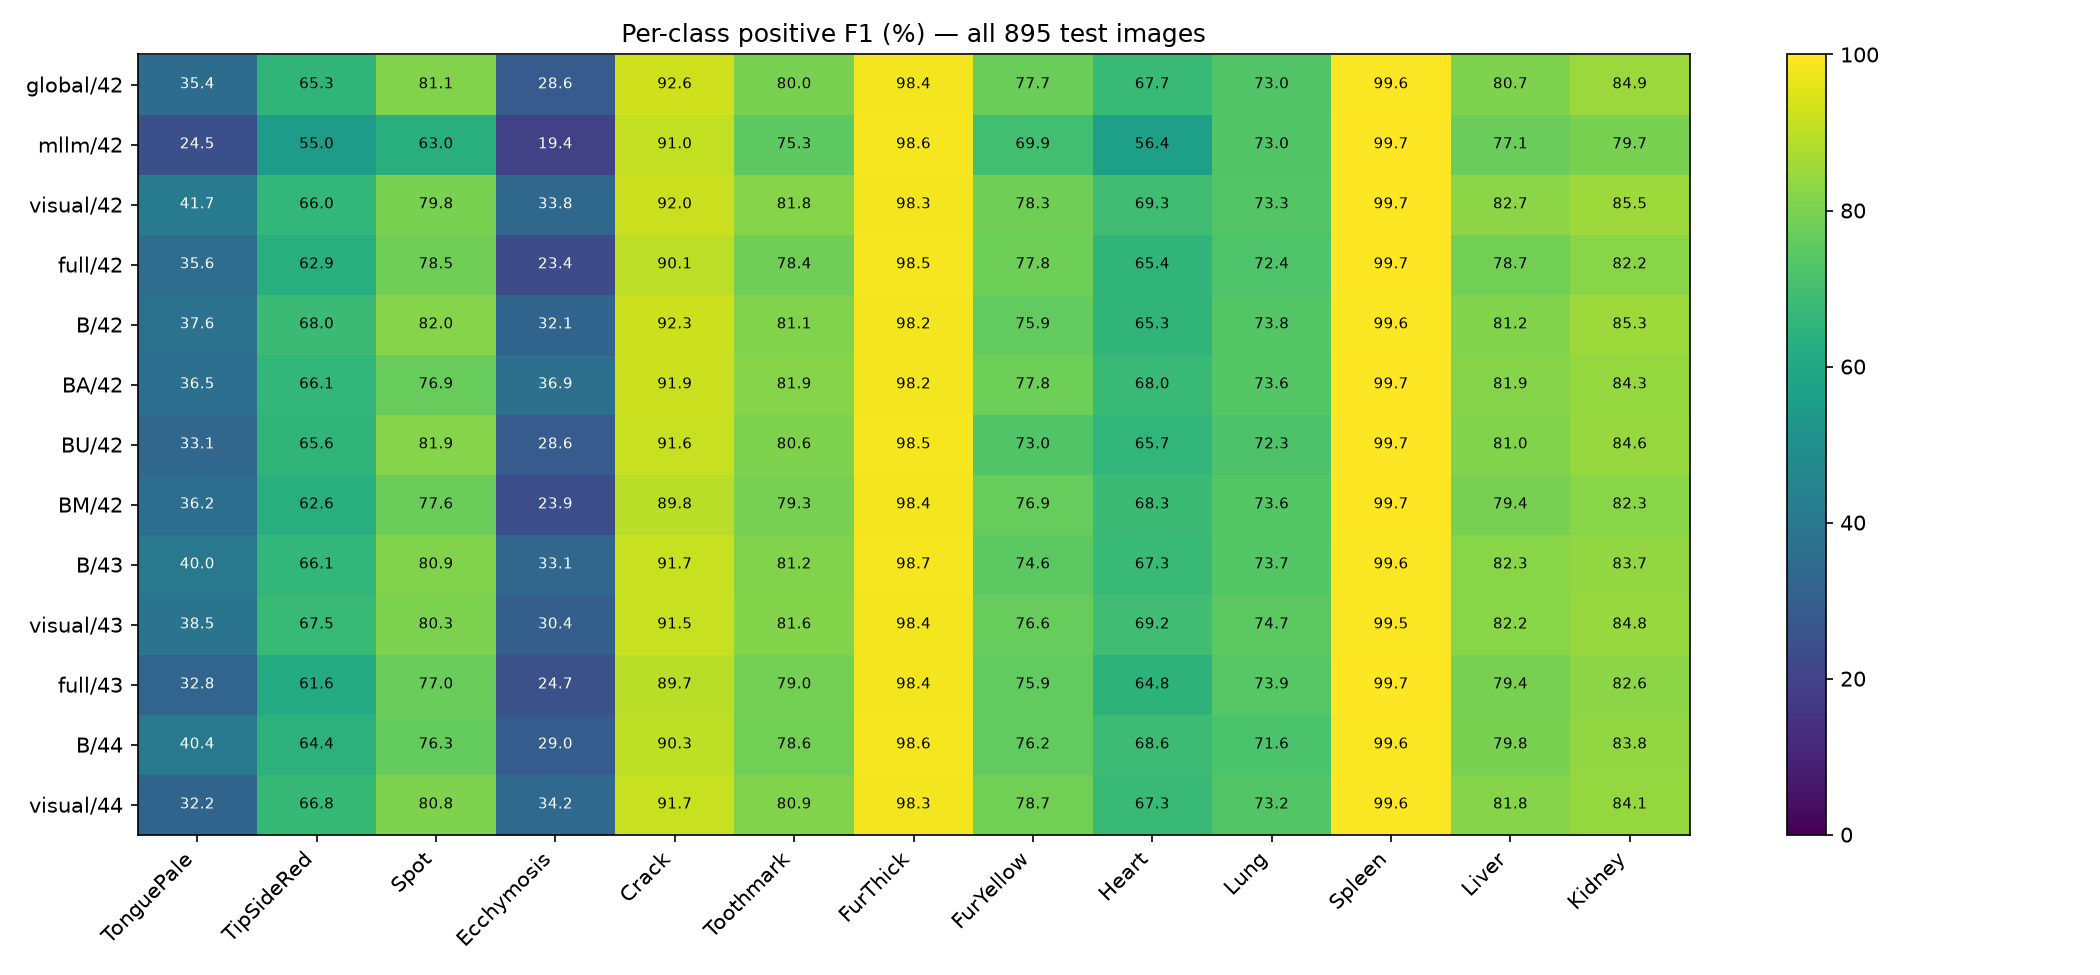
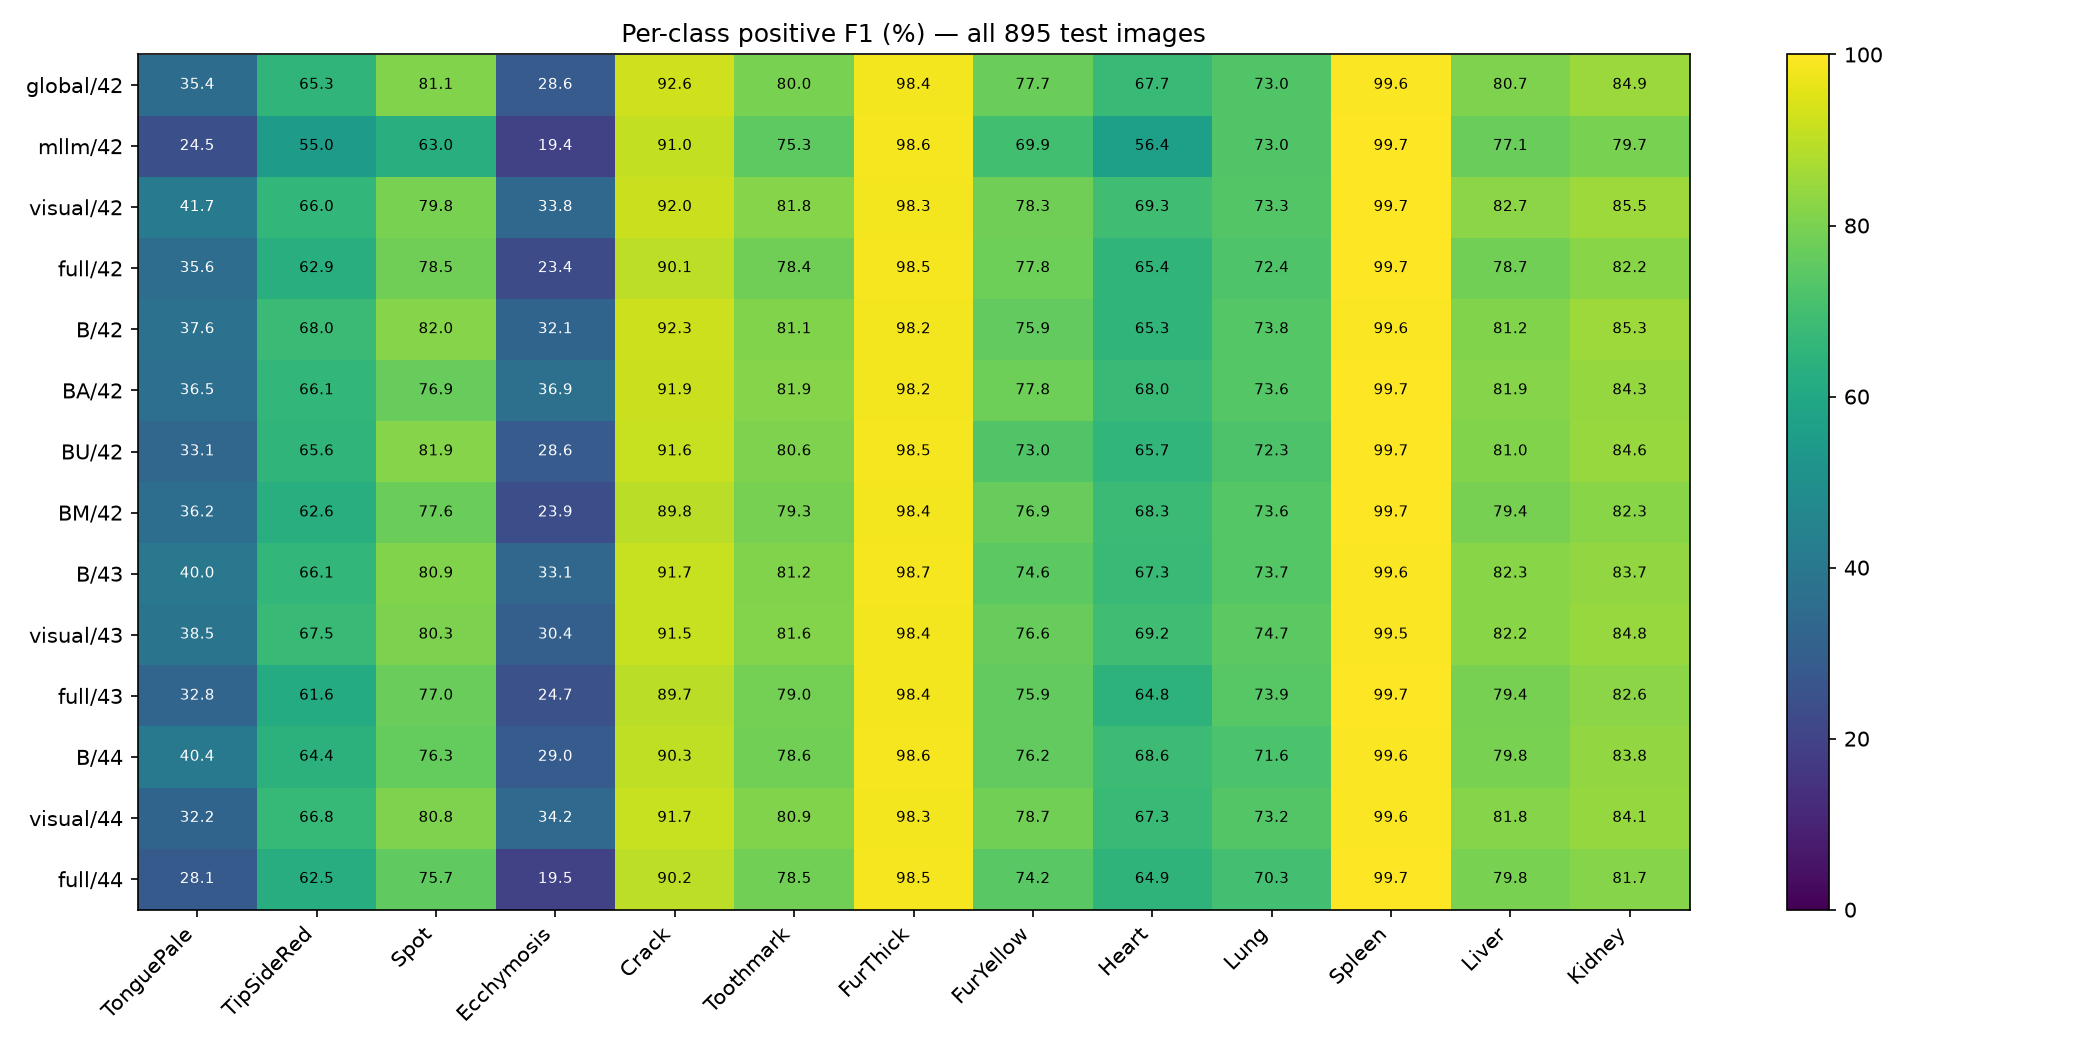
results: reproduction suite 14/14 complete

diff --git a/reports/reproduction/20261005_042629_774918_suite/reproduction_report.md b/reports/reproduction/20261005_042629_774918_suite/reproduction_report.md
@@ -22,6 +22,7 @@ code_compat 保留独立七图增强、无 ImageNet normalization、global-only 
 | full | 43 | 99 | 82.84 / 67.39 | 77.12 / 80.07 |
 | B | 44 | 26 | 84.26 / 69.21 | 78.61 / 80.67 |
 | visual | 44 | 60 | 84.01 / 70.44 | 78.28 / 81.19 |
+| full | 44 | 80 | 82.82 / 65.92 | 76.94 / 79.27 |
 
 六组消融和主模型多 seed 的运行状态见 `run_status.json`；未完成时不宣称整个复现完成。
 TVMoE 等外部实现/同 split 逐图预测、论文 Sankey 8×5 公式仍缺失，不能复现对应比较和图。
